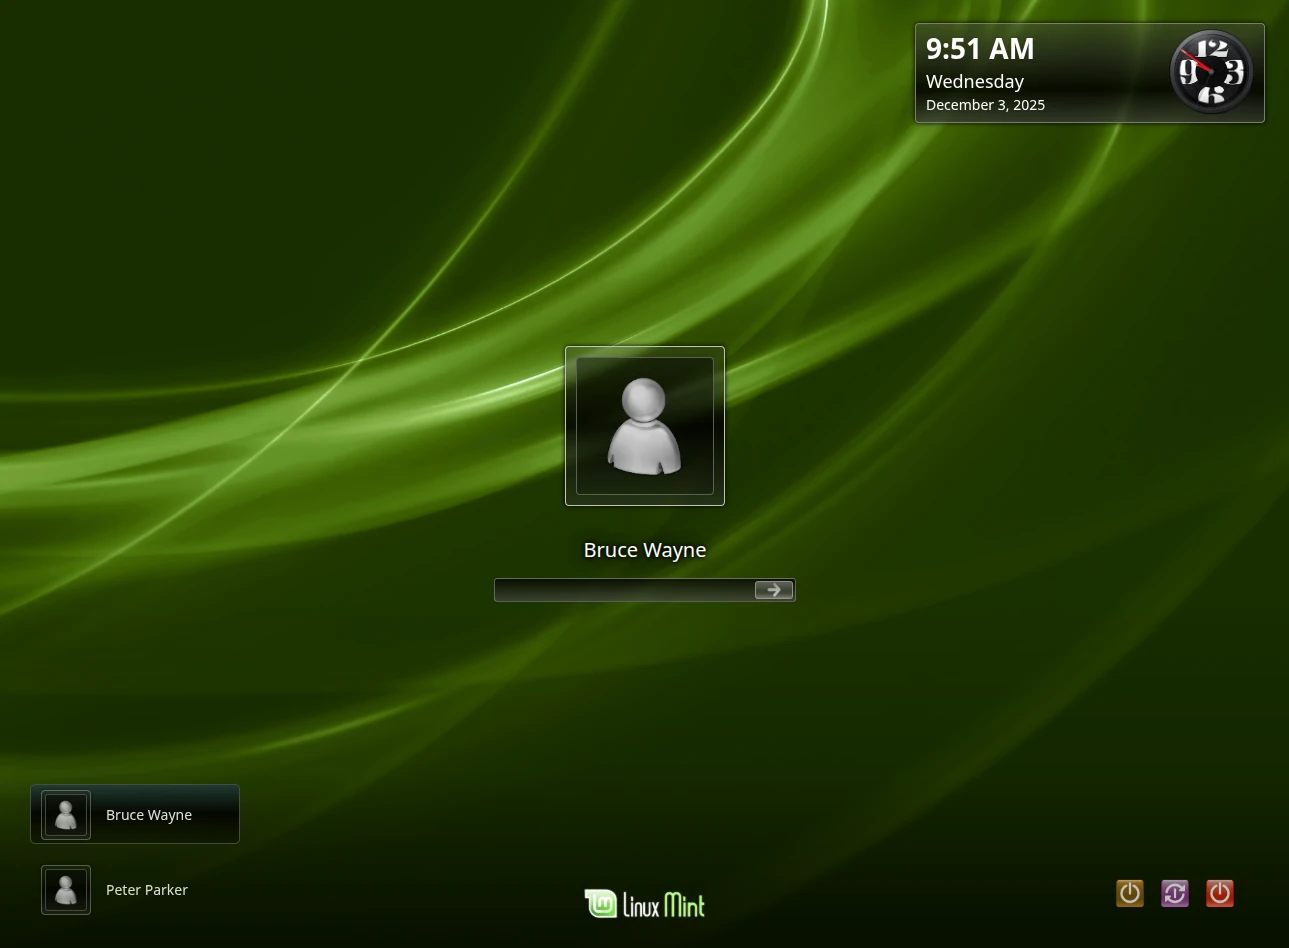
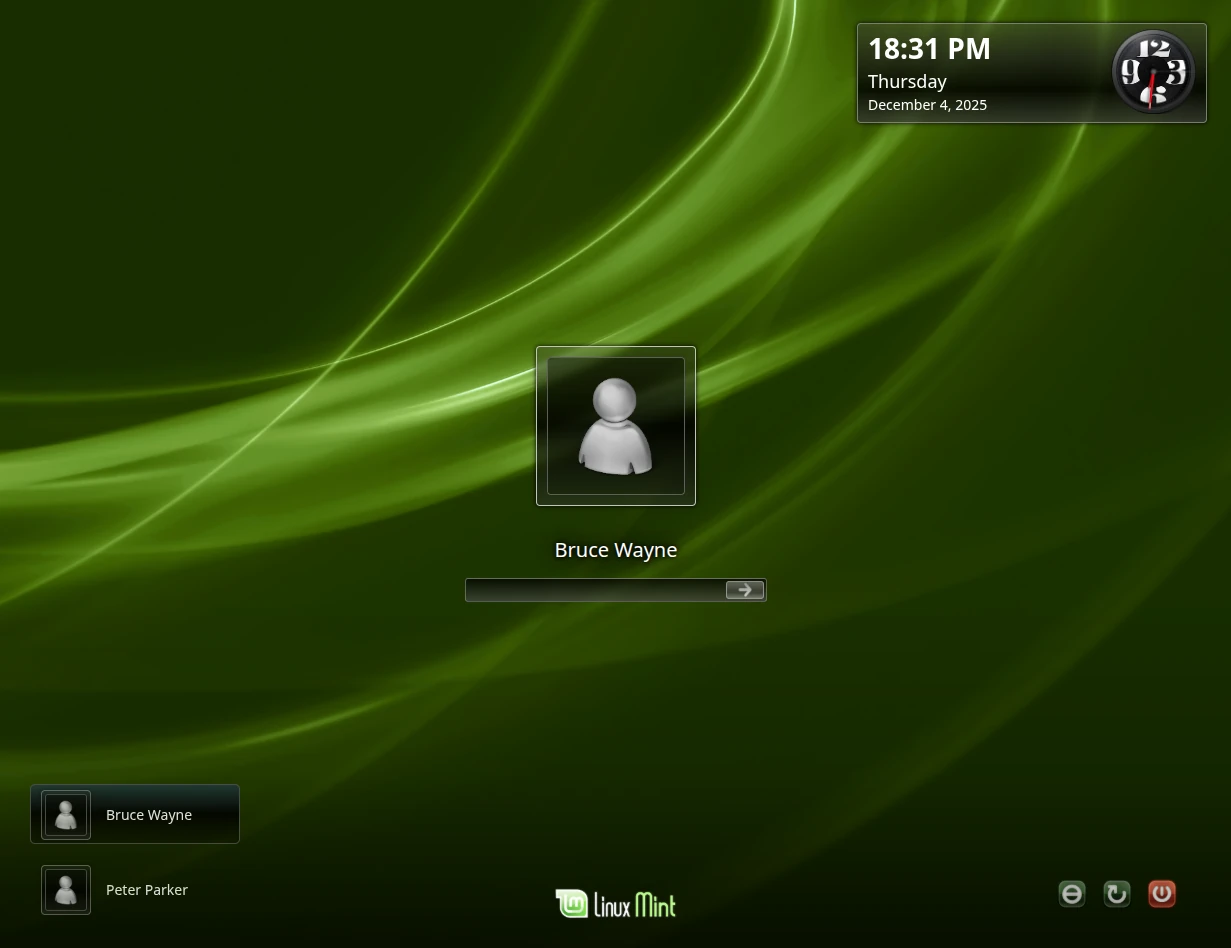
commit

diff --git a/styles/flat.css b/styles/flat.css
@@ -107,39 +107,39 @@ body {
 }
 
 img[src="img/default_avatar.png"] {
-    content:url("./assets/flat/default_pfp.jpg");
+    content:url("../assets/flat/default_pfp.jpg");
 }
 
 img[src="img/archlogo.png"] {
-    content:url("./assets/brandings/archlogo_flat.png");
+    content:url("../assets/brandings/archlogo_flat.png");
 }
 
 img[src="img/clock/face-bk.png"] {
-    content:url("./assets/clocks/flat/face-bk.png");
+    content:url("../assets/clocks/flat/face-bk.png");
 }
 
 img[src="img/clock/arrow-hour.png"] {
-    content:url("./assets/clocks/flat/arrow-hour.png");
+    content:url("../assets/clocks/flat/arrow-hour.png");
 }
 
 img[src="img/clock/arrow-min.png"] {
-    content:url("./assets/clocks/flat/arrow-min.png");
+    content:url("../assets/clocks/flat/arrow-min.png");
 }
 
 img[src="img/clock/arrow-sec.png"] {
-    content:url("./assets/clocks/flat/arrow-sec.png");
+    content:url("../assets/clocks/flat/arrow-sec.png");
 }
 
 img[src="img/b-shutdown.png"] {
-    content:url("./assets/pbuttons/b-shutdown.png");
+    content:url("../assets/pbuttons/b-shutdown.png");
 }
 
 img[src="img/b-reboot.png"] {
-    content:url("./assets/pbuttons/b-reboot.png");
+    content:url("../assets/pbuttons/b-reboot.png");
 }
 
 img[src="img/b-sleep.png"] {
-    content:url("./assets/pbuttons/b-sleep.png");
+    content:url("../assets/pbuttons/b-sleep.png");
 }
 
 .login-input span {
@@ -197,9 +197,9 @@ img[src="img/b-sleep.png"] {
 }
 
 img[src="./img/icons/error.png"] {
-    content:url("./assets/icons/flat/message_error.png");
+    content:url("../assets/icons/flat/message_error.png");
 }
 
 img[src="./img/icons/capslock.png"] {
-    content:url("./assets/icons/flat/capslock.png");
+    content:url("../assets/icons/flat/capslock.png");
 }

diff --git a/config.js b/config.js
@@ -1,10 +1,10 @@
 
 
 var config_params = {
-    os: "nixos",
+    os: "linuxmint",
     theme: "avalonvalley",
-    wallpaper_path: "img/backgrounds/snowflake.jpg",
-    filter_args: "hue-rotate(0deg)" //add some effects to the login background ( style="filter: {filter_args}" )
+    wallpaper_path: "img/backgrounds/humanity.png",
+    filter_args: "hue-rotate(63deg)" //add some effects to the login background ( style="filter: {filter_args}" )
 }
 
 // wallpaper recommendations
